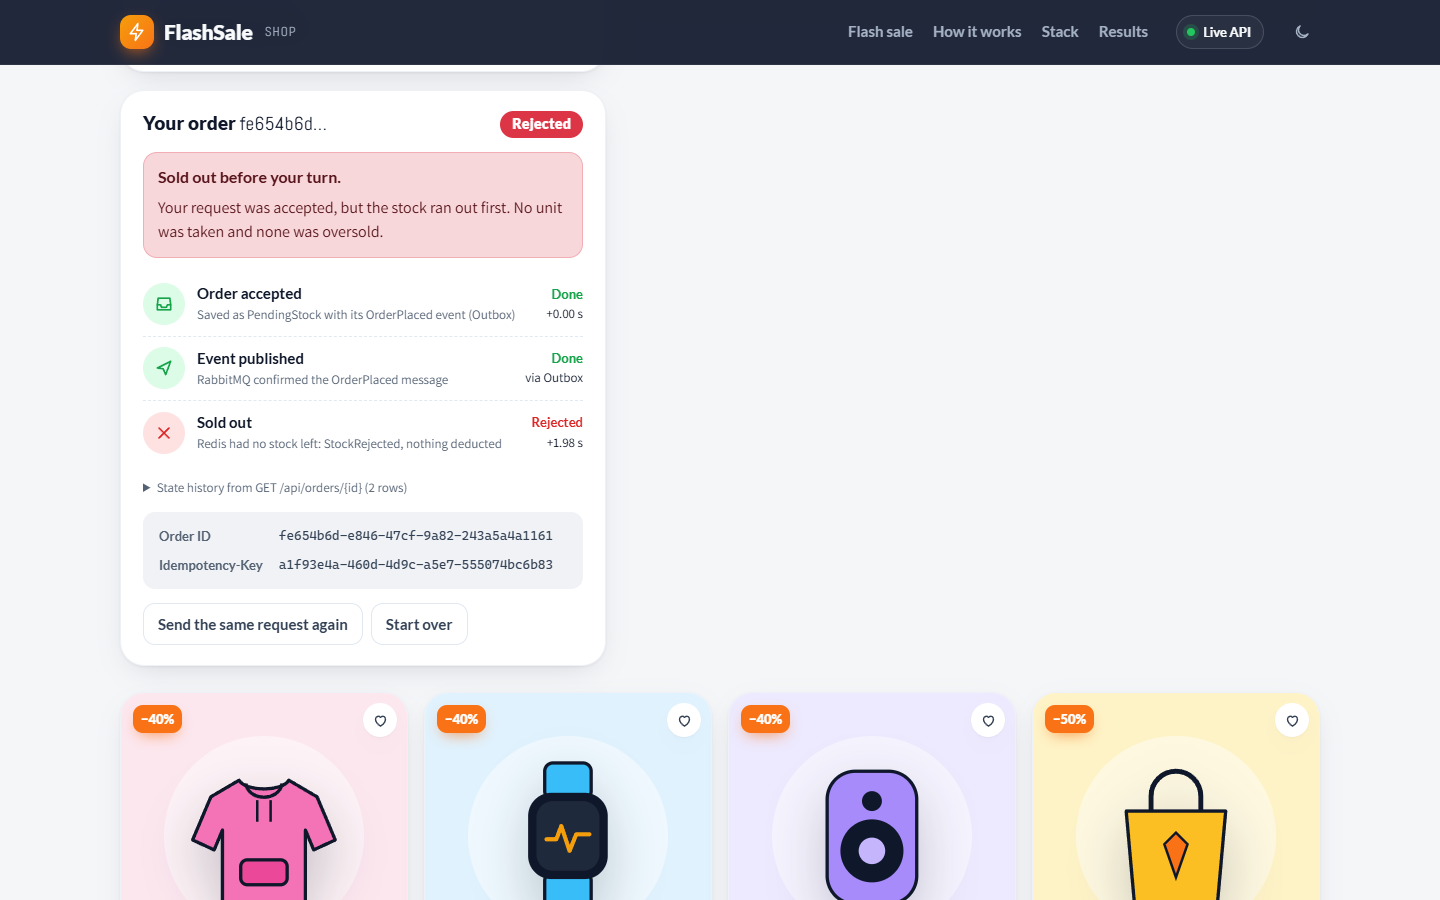
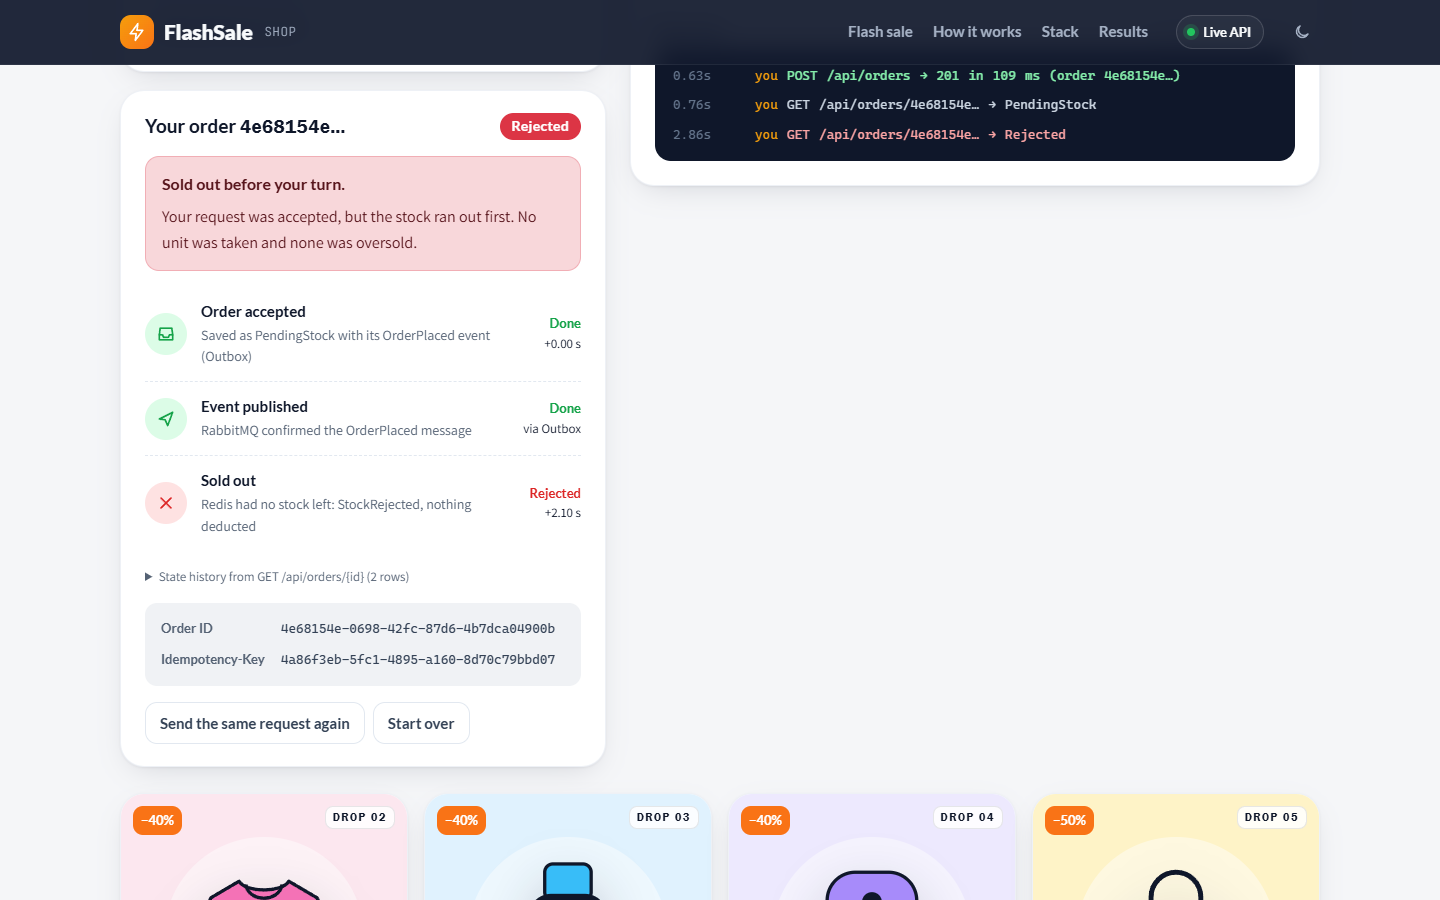
Demo page: live screenshots 02, 08 and 11 retaken on the local stack in the current look; README lists the orders behind them

diff --git a/demo-results/ui/README.md b/demo-results/ui/README.md
@@ -73,12 +73,11 @@ edges, and is never shown wider than 330 px.
 `screenshots/` holds desktop, phone and dark-mode screenshots.
 - 01, 04, 05, 06, 07 and 10 (20 November 2026) show the simulation and the
   static sections with the photo, the fonts and the wider spacing.
-- The live-mode shots (02, 08 and 11) are from 19 November 2026. They still
-  show the earlier drawn earbuds and the tighter spacing. They come from real
-  orders on the local stack:
-  - 63a546b7 on c0-demo-product went to Completed. A second POST with the same
+- The live-mode shots (02, 08 and 11) were retaken on 21 November 2026 in the
+  current look. They come from real orders on the local stack:
+  - 23d268a7 on c0-demo-product went to Completed. A second POST with the same
     Idempotency-Key returned 200 and the same order.
-  - fe654b6d on the same product was Rejected, as its one unit was gone.
-  - 8662a96d on flash-product-1 (phone) went to Completed.
+  - 4e68154e on the same product was Rejected, as its one unit was gone.
+  - 4b8d3d6f on flash-product-1 (phone) went to Completed.
 
 Logos are from Simple Icons 13.21.0 (CC0), inlined in the page.
